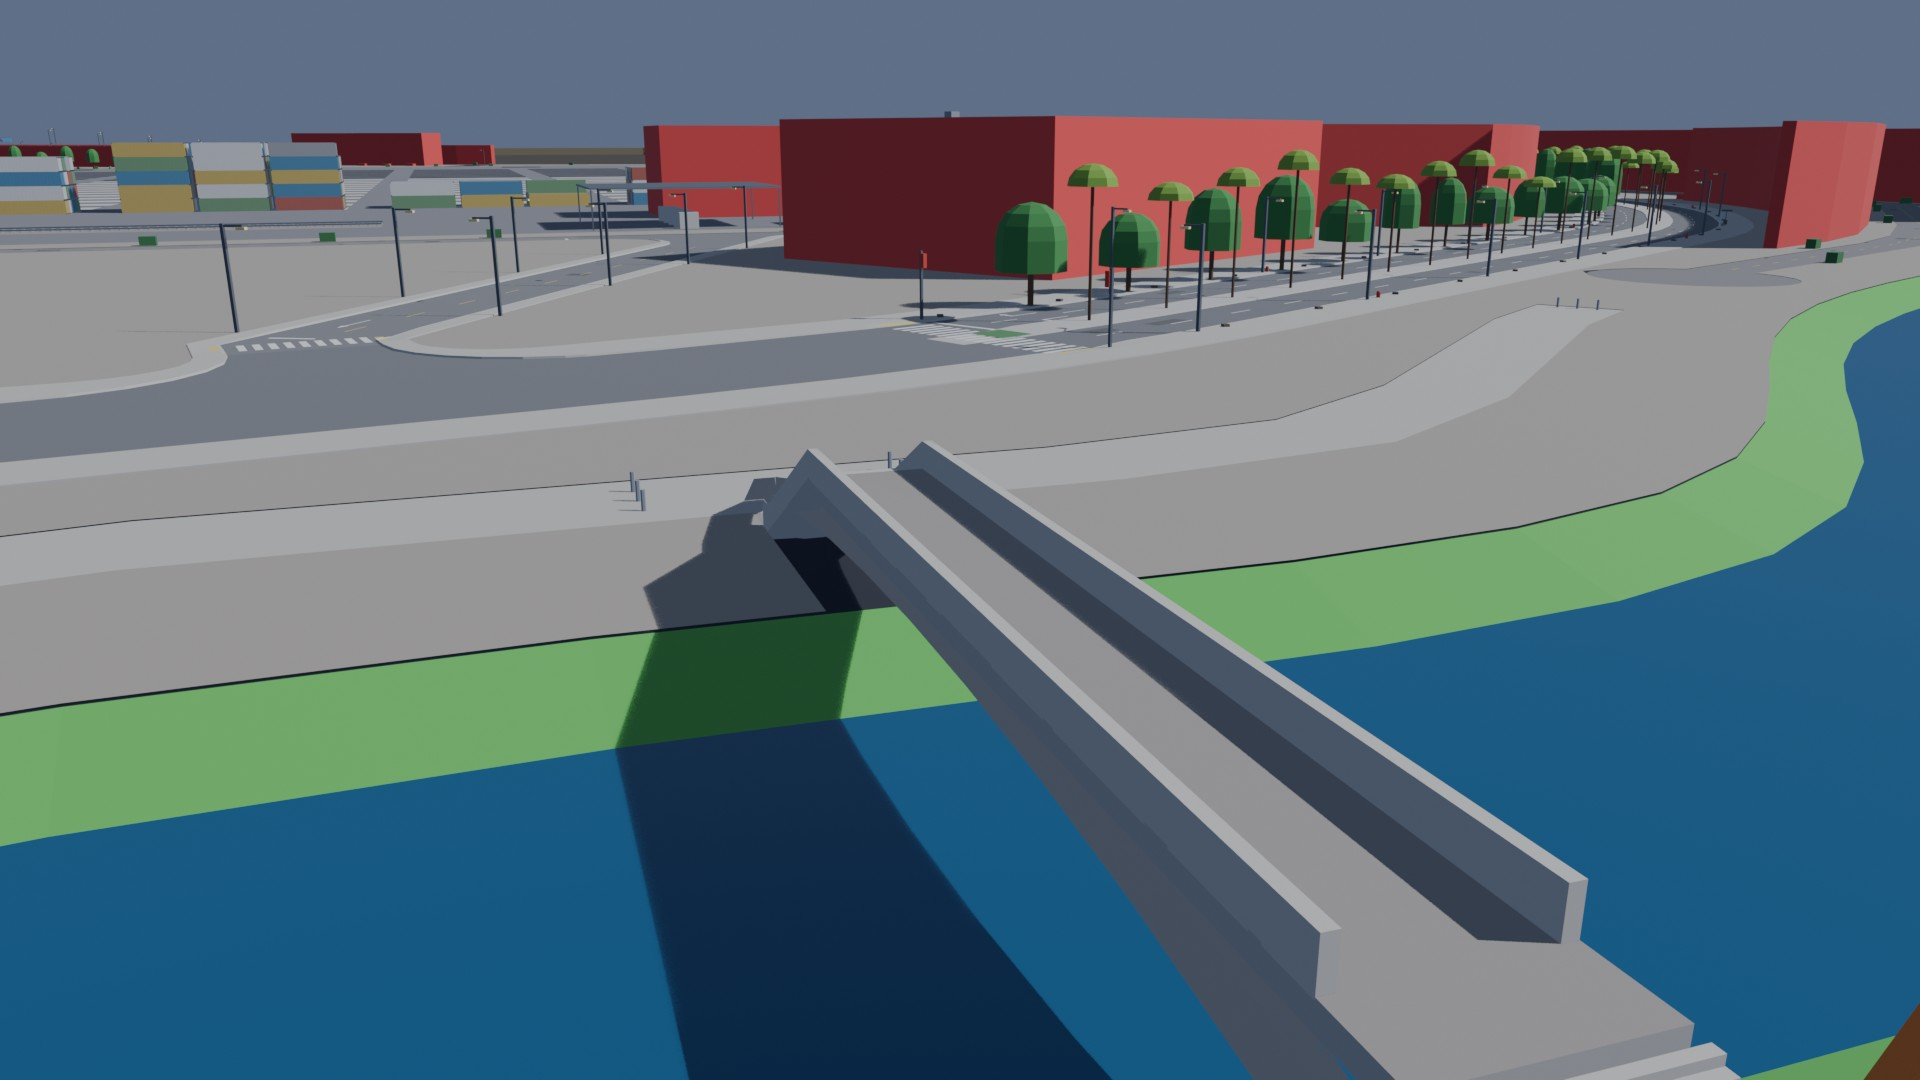
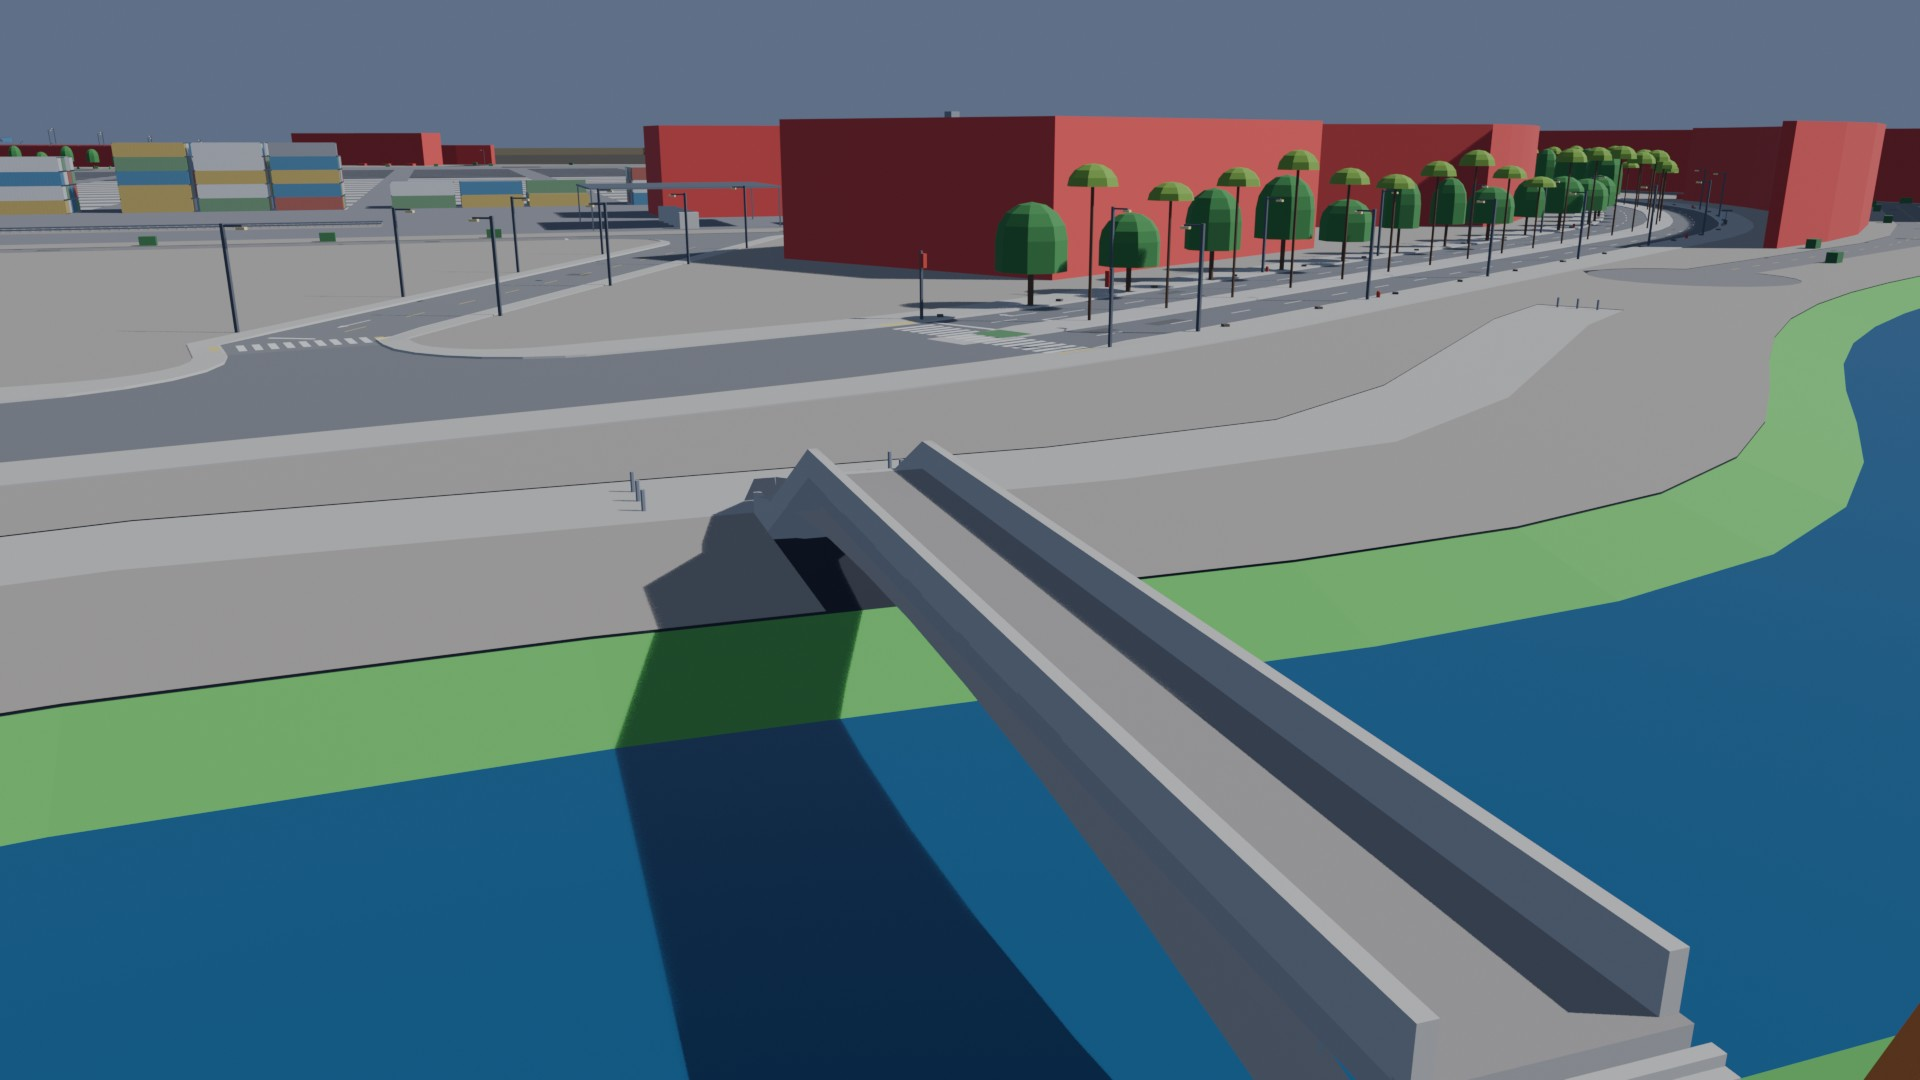
AG17: a footbridge's railings run along its walking surface
The first AG17 build ended a footbridge's railings and stone parapets at M22's cuts, about
2 m in from where its walking surface starts at the junction's outline, past the top of its
stairs, so 2 m of the 3.8 m deck had none at each end. They now run along the walking
surface (`roads.walk_span`), each `FOOT_CLEAR_M` (0.15 m) off the end junctions' faces of the
map at its own offset (corner pads too: one Delta railing ran 0.95 m onto a pad at grade);
on Delta within 7.5 cm of main's ends but one, which stops at that pad.
Test: `test_small_city_footbridge_railings_run_along_the_walk`.
Goldens: golden_streets.json (the small city's and the cities' tiles with footbridges) and
golden_hashes.json ag6.testport_materials (their bridge entries) rewritten; props, water and
ground unchanged. Docs: per-city table from the final builds, a footbridge render.

Changed region(s): [[0.75, 0.7944, 0.9062, 0.9472], [0.6875, 0.8556, 0.75, 1.0]]

diff --git a/assetgen/streets/barriers.py b/assetgen/streets/barriers.py
@@ -52,6 +52,7 @@ from .path import Path, dist, seg_cross, unit
 RAISED_M = 0.5          # a junction this far over its ground stands on a slab of its own
 XWALK_CLEAR_M = 1.0     # a run keeps this off a crosswalk on its road
 MIN_SPAN_M = 1.0        # shorter spans are left out
+FOOT_CLEAR_M = 0.15     # a footbridge's railing keeps this off the junctions at its ends (#95)
 END_M = 3.0             # a jersey's ramped end
 TOE_F = 0.12            # ... down to this share of its height
 CORNER_MIN_M = 2.0      # an at-grade corner shorter than this carries no guard wall
@@ -601,6 +602,11 @@ def road_runs(cx, s, inputs: dict, runs: list[Run] | None = None,
         return []
     cuts = inputs.get("cuts") or list(cx.cuts.get(s.id, (0.0, 0.0)))
     s0, s1 = cuts[0], P.L - cuts[1]
+    if inputs.get("walk"):
+        # (a footbridge, out of M22's map: its railings run along its walking surface from
+        # the junction's outline at each end, `roads.walk_span`; M22's cuts fall further in,
+        # past the top of its stairs)
+        s0, s1 = inputs["walk"]
     if s1 - s0 < MIN_SPAN_M:
         return []
     by = set() if by is None else by
@@ -623,6 +629,15 @@ def road_runs(cx, s, inputs: dict, runs: list[Run] | None = None,
             cid, g = xs[k]
             xws.append(g)
             by.add(cid)
+    if inputs.get("walk"):
+        # (each footbridge railing keeps `FOOT_CLEAR_M` off the junctions at its ends at its
+        # own offset, as #95 kept it: their faces of the map, corner pads too, else outline)
+        for nid in (s.start, s.end):
+            j = cx.junction_at.get(nid)
+            if j is not None:
+                g = _faces_union(cx, j.id, FOOT_CLEAR_M)
+                xws.append(g if g is not None else
+                           G.from_model_poly(j.polygon).buffer(FOOT_CLEAR_M))
     own = _faces_union(cx, s.id)
     out = []
     for run in runs:
@@ -680,9 +695,9 @@ def _crosswalks(cx):
     return got
 
 
-def _faces_union(cx, sid: str):
-    """The union of a road's faces of the map (all of them: its sidewalk bands too), meters,
-    grown by `OWN_PAD_M`; None without any."""
+def _faces_union(cx, sid: str, pad: float = OWN_PAD_M):
+    """The union of a road's (or a junction's) faces of the map (all of them: its sidewalk
+    bands, corner pads too), meters, grown by `pad`; None without any."""
     PI = cx.pave
     if not PI.on:
         return None
@@ -698,7 +713,7 @@ def _faces_union(cx, sid: str):
     if not gs:
         return None
     with G.canonical():
-        return G.qpoly(G.union([G.qpoly(g) for g in gs]).buffer(OWN_PAD_M))
+        return G.qpoly(G.union([G.qpoly(g) for g in gs]).buffer(pad))
 
 
 def _band(P: Path, t0: float, t1: float, s0: float, s1: float):

diff --git a/tests/assetgen/test_ag_barriers.py b/tests/assetgen/test_ag_barriers.py
@@ -201,6 +201,36 @@ def test_small_city_runs_end_at_their_junctions():
     assert spans and ported
 
 
+def test_small_city_footbridge_railings_run_along_the_walk():
+    """M22's map leaves footbridges out: a footbridge's railings (the bridge piece's) run
+    along its walking surface (`roads.walk_span`, from the junction's outline at each end),
+    within it and starting at most a meter in (`FOOT_CLEAR_M` off the junction at the
+    railing's own offset), not from M22's cuts about 2 m further in, past the top of its
+    stairs."""
+    from assetgen import brief as B
+    from assetgen.streets import structures as ST
+    from assetgen.streets.ctx import Ctx
+    from assetgen.streets.roads import gather
+
+    model, _, _ = B.load_model(small_build() / "base")
+    cx = Ctx(model)
+    n = 0
+    for b in sorted(model.bridges, key=lambda b: b.id):
+        inp = ST.gather_bridge(cx, b).inputs
+        if not inp.get("rails"):
+            continue
+        ids = list(b.segment_ids) or ST._carriers(cx, b)
+        walk = gather(cx, cx.seg[ids[0]]).inputs.get("walk")
+        assert walk, b.id
+        for r in inp["rails"]:
+            assert r["spans"], (b.id, r["name"])
+            a, e = r["spans"][0][0], r["spans"][-1][1]
+            assert walk[0] - 1e-3 <= a < e <= walk[1] + 1e-3, (b.id, r, walk)
+            assert a - walk[0] < 1.0 and walk[1] - e < 1.0, (b.id, r, walk)
+            n += 1
+    assert n
+
+
 def test_a_prop_variant_keeps_off_the_carriageway():
     """AG8 draws the first variant of a prop's family that stands clear of the carriageways
     (#95); a bench on a road's centerline has none."""

diff --git a/docs/assetgen_milestones.md b/docs/assetgen_milestones.md
@@ -2380,9 +2380,12 @@ outputs `docs/progress/AG17/`.
 - **Footbridges** (out of M22's map, which has no faces for them): a footbridge's road
   piece draws its walking surface on its own profile from where its line leaves the
   junction at each end (`roads.walk_span`, the junction's outline) and its girder under it,
-  the sides rising to the surface (no face draws a fascia there); the railings stay the
-  bridge piece's. Found on the materials golden: the first AG17 build left footbridges with
-  an open girder and no surface.
+  the sides rising to the surface (no face draws a fascia there); the bridge piece's
+  railings and stone parapets run along that surface too, each `FOOT_CLEAR_M` (0.15 m) off
+  the faces of the junction at its ends (corner pads too) at its own offset
+  (`barriers.road_runs`, #95's rule; M22's cuts fall about 2 m further in, past the top of
+  the stairs). Found on the materials golden: the first AG17 build left
+  footbridges with an open girder, no surface and their railings 2 m short at each end.
 - **AG8** (`props/gather.py`): props keep off the map's carriageway faces (`_Fit`, at the
   height of the nearest vertex); a raised junction's corner is its faces (`_RaisedCorners`:
   a standing thing in its reach at its height on no face of the map is left out, one on a
@@ -2399,18 +2402,18 @@ gap on main's water stage, Cragmouth's skybridge clearance and landings and a ro
 
 | City | Pieces | Triangles | Segments | Not drawn / open / twice | Steps | Strips | Clashes | Failing |
 |---|---|---|---|---|---|---|---|---|
-| Delta Megacity | 8,827 | 1,586,006 | 196,763 | 0 / 0 / 0 | 0 | 0 | 0 | asset_envelope, asset_unique, asset_grounded |
-| Vesper Bay | 9,019 | 1,457,545 | 210,886 | 0 / 0 / 0 | 0 | 0 | 0 | none |
-| Saltreach Free Port | 5,484 | 815,404 | 118,555 | 0 / 0 / 0 | 0 | 0 | 0 | none |
-| Nexus City | 9,617 | 1,469,552 | 223,841 | 0 / 0 / 0 | 0 | 0 | 0 | water_gaps |
-| Greyhook | 4,450 | 833,621 | 128,893 | 0 / 0 / 0 | 0 | 0 | 0 | none |
-| Vesper Bay Pinned | 9,817 | 1,459,331 | 219,929 | 0 / 0 / 0 | 0 | 0 | 0 | asset_unique |
-| Vesper Bay Stacks | 9,790 | 1,488,007 | 217,981 | 0 / 0 / 0 | 0 | 0 | 0 | none |
-| Vesper Bay Decks | 9,945 | 1,605,858 | 219,812 | 0 / 0 / 0 | 0 | 0 | 0 | none |
-| Cragmouth | 11,119 | 1,803,407 | 228,098 | 0 / 0 / 0 | 0 | 0 | 0 | asset_clearance, asset_landings, asset_grounded |
+| Delta Megacity | 8,827 | 1,586,582 | 196,763 | 0 / 0 / 0 | 0 | 0 | 0 | asset_envelope, asset_unique, asset_grounded |
+| Vesper Bay | 9,019 | 1,457,809 | 210,886 | 0 / 0 / 0 | 0 | 0 | 0 | none |
+| Saltreach Free Port | 5,484 | 815,542 | 118,555 | 0 / 0 / 0 | 0 | 0 | 0 | none |
+| Nexus City | 9,617 | 1,471,296 | 223,841 | 0 / 0 / 0 | 0 | 0 | 0 | water_gaps |
+| Greyhook | 4,450 | 833,821 | 128,893 | 0 / 0 / 0 | 0 | 0 | 0 | none |
+| Vesper Bay Pinned | 9,817 | 1,459,583 | 219,929 | 0 / 0 / 0 | 0 | 0 | 0 | asset_unique |
+| Vesper Bay Stacks | 9,790 | 1,488,107 | 217,981 | 0 / 0 / 0 | 0 | 0 | 0 | none |
+| Vesper Bay Decks | 9,945 | 1,606,122 | 219,812 | 0 / 0 / 0 | 0 | 0 | 0 | none |
+| Cragmouth | 11,119 | 1,803,719 | 228,098 | 0 / 0 / 0 | 0 | 0 | 0 | asset_clearance, asset_landings, asset_grounded |
 
 Delta before (M22's main) and after: 8,827 street pieces both; 1,288,343 triangles to
-1,586,006 (roads 261,668 to 357,973, junctions 217,036 to 362,476, sidewalks 346,999 to
+1,586,582 (roads 261,668 to 357,973, junctions 217,036 to 362,476, sidewalks 346,999 to
 373,423, crosswalks 20,202 to 50,284); roads inside their junctions with no mesh 8 to 246
 (the clusters' inner roads); corner pads 3,248 (269 left out) to 3,594 (none). The
 watertight check on M22's own packs: 361,103 sides of shared segments not drawn, 29,306

diff --git a/docs/progress/AG17/README.md b/docs/progress/AG17/README.md
@@ -22,7 +22,7 @@ same heights by construction. The full record is in `docs/assetgen_milestones.md
   corner parapets and guard walls along its own edge from one leg's port to the next.
 - **Marks** on the faces as drawn.
 - **Footbridges**, which the map leaves out: the walking surface on the bridge's own
-  profile from junction to junction, the girder closed under it.
+  profile from junction to junction, the girder closed under it, the railings along it.
 
 ## Checks
 
@@ -35,20 +35,20 @@ Every city with the final code (`assetgen build`, models from M22's main):
 
 | City | Street pieces | Street triangles | Shared segments | Not drawn / open / twice | Steps (largest) | Strips | Clashes | Failing assetgen checks |
 |---|---|---|---|---|---|---|---|---|
-| Delta Megacity | 8,827 | 1,586,006 | 196,763 | 0 / 0 / 0 | 0 (0.0 m) | 0 | 0 | asset_envelope, asset_unique, asset_grounded (#144) |
-| Vesper Bay | 9,019 | 1,457,545 | 210,886 | 0 / 0 / 0 | 0 (0.0 m) | 0 | 0 | none |
-| Saltreach Free Port | 5,484 | 815,404 | 118,555 | 0 / 0 / 0 | 0 (0.0 m) | 0 | 0 | none |
-| Nexus City | 9,617 | 1,469,552 | 223,841 | 0 / 0 / 0 | 0 (0.0 m) | 0 | 0 | water_gaps (main's water) |
-| Greyhook | 4,450 | 833,621 | 128,893 | 0 / 0 / 0 | 0 (0.0 m) | 0 | 0 | none |
-| Vesper Bay Pinned | 9,817 | 1,459,331 | 219,929 | 0 / 0 / 0 | 0 (0.0 m) | 0 | 0 | asset_unique (two buildings' thumbnails) |
-| Vesper Bay Stacks | 9,790 | 1,488,007 | 217,981 | 0 / 0 / 0 | 0 (0.0 m) | 0 | 0 | none |
-| Vesper Bay Decks | 9,945 | 1,605,858 | 219,812 | 0 / 0 / 0 | 0 (0.0 m) | 0 | 0 | none |
-| Cragmouth | 11,119 | 1,803,407 | 228,098 | 0 / 0 / 0 | 0 (0.0 m) | 0 | 0 | asset_clearance, asset_landings, asset_grounded (a roof vent) |
+| Delta Megacity | 8,827 | 1,586,582 | 196,763 | 0 / 0 / 0 | 0 (0.0 m) | 0 | 0 | asset_envelope, asset_unique, asset_grounded (#144) |
+| Vesper Bay | 9,019 | 1,457,809 | 210,886 | 0 / 0 / 0 | 0 (0.0 m) | 0 | 0 | none |
+| Saltreach Free Port | 5,484 | 815,542 | 118,555 | 0 / 0 / 0 | 0 (0.0 m) | 0 | 0 | none |
+| Nexus City | 9,617 | 1,471,296 | 223,841 | 0 / 0 / 0 | 0 (0.0 m) | 0 | 0 | water_gaps (main's water) |
+| Greyhook | 4,450 | 833,821 | 128,893 | 0 / 0 / 0 | 0 (0.0 m) | 0 | 0 | none |
+| Vesper Bay Pinned | 9,817 | 1,459,583 | 219,929 | 0 / 0 / 0 | 0 (0.0 m) | 0 | 0 | asset_unique (two buildings' thumbnails) |
+| Vesper Bay Stacks | 9,790 | 1,488,107 | 217,981 | 0 / 0 / 0 | 0 (0.0 m) | 0 | 0 | none |
+| Vesper Bay Decks | 9,945 | 1,606,122 | 219,812 | 0 / 0 / 0 | 0 (0.0 m) | 0 | 0 | none |
+| Cragmouth | 11,119 | 1,803,719 | 228,098 | 0 / 0 / 0 | 0 (0.0 m) | 0 | 0 | asset_clearance, asset_landings, asset_grounded (a roof vent) |
 
 The failing checks are of buildings and water, whose code AG17 leaves as it was. On M22's
 own Delta packs the watertight check finds 361,103 sides of shared segments not drawn
 and 29,306 open (the old pieces found their own edges, off the map's vertices); Delta's
-street pieces are as many as before (8,827), with 1,586,006 triangles (1,288,343 before),
+street pieces are as many as before (8,827), with 1,586,582 triangles (1,288,343 before),
 246 roads inside their clusters with no mesh of their own (8 before), and 3,594 corner pads
 (3,248 before, 269 left out).
 
@@ -97,7 +97,7 @@ map's own vertices.
 
 A footbridge over the river (`rs.w1449n518`, after only): the map has no faces for
 footbridges, so the road piece draws its walking surface on the bridge's profile between
-the parapets, the girder closed under it.
+the parapets, which run its whole length, the girder closed under it.
 
 <img src="after/streets_footbridge.jpg" width="900">
 

diff --git a/CLAUDE.md b/CLAUDE.md
@@ -2039,7 +2039,8 @@ AG17 (road surfaces by construction, after M22; scope 14.18) is in place, in
   `_clear_spans`, `Keepout`, `clip_line`, `roads._median_clip`, `_make`'s tidied line.
 - **Footbridges** (no faces in M22's map): the road piece draws the walking surface on the
   bridge's own profile from junction outline to junction outline (`roads.walk_span`) and its
-  girder closed under it; the railings stay the bridge piece's.
+  girder closed under it; the bridge piece's railings run along it, `barriers.FOOT_CLEAR_M`
+  off the junctions.
 - **AG8:** props keep off the map's carriageway faces (`_Fit`) and stand on a raised junction's
   pads as AG7 draws them (`_RaisedCorners`), both from the map. No exporter change.
 Results: `docs/progress/AG17/`.
